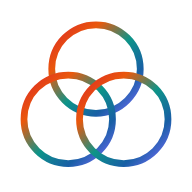
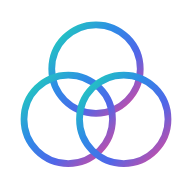
アイコンを提供デザイン(ティール→ブルー→マゼンタ)に／サンプルをサマリーに出さない
- アプリアイコンの3円リングのグラデを提供サンプル準拠（teal→blue→magenta）に変更。PNG再生成。
- サマリー集計を「実データ(Myデータ)」ベースに統一。サンプル表示中の機能は退避中の
  実データ(stash)から集計し、サンプルがホーム/称号/ダッシュボードのサマリーに
  反映されないように（getRealData を sample-view-store に追加）。

Changed region(s): [[0.0938, 0.0938, 0.9062, 0.875]]

diff --git a/src/components/HomeScreen.tsx b/src/components/HomeScreen.tsx
@@ -6,6 +6,7 @@ import { useBekkaiStore } from '@/stores/bekkai-store'
 import { useEntriesStore } from '@/discovery/stores/entries-store'
 import { weeklyOutputs } from '@/lib/utils'
 import { currentStreak } from '@/lib/daily'
+import { useSampleView, getRealData } from '@/stores/sample-view-store'
 import { DailyPrompt } from '@/components/DailyPrompt'
 import { CountUp } from '@/components/CountUp'
 import { Badges } from '@/components/Badges'
@@ -15,36 +16,46 @@ interface HomeScreenProps {
 }
 
 export function HomeScreen({ onNavigate }: HomeScreenProps) {
+  // ストア変更で再描画させるための購読（値はサマリーには直接使わない）
   const { outputs, inputs, failurePower, realizationPower } = useGrowthStore()
   const bekkais = useBekkaiStore((s) => s.bekkais)
   const entries = useEntriesStore((s: { entries: Record<string, unknown[]> }) => s.entries)
+  const modes = useSampleView((s) => s.modes)
 
-  const weekOut = useMemo(() => weeklyOutputs(outputs).length, [outputs])
+  // サマリーは「実データ（Myデータ）」で集計。サンプル表示中の機能は退避中の実データを使う。
+  const real = useMemo(() => getRealData(),
+    [outputs, inputs, failurePower, realizationPower, bekkais, entries, modes])
+
+  const rOutputs = (real.growthCore.outputs ?? []) as { created_at: string }[]
+  const rInputs = (real.growthCore.inputs ?? []) as { created_at: string }[]
+  const rBekkais = (real.bekkais ?? []) as { created_at?: string }[]
+
+  const weekOut = useMemo(() => weeklyOutputs(rOutputs as never).length, [rOutputs])
 
   const streak = useMemo(() => {
     const dates: string[] = []
-    outputs.forEach((o) => dates.push(o.created_at))
-    inputs.forEach((i) => dates.push(i.created_at))
-    bekkais.forEach((b) => dates.push(b.created_at))
-    if (failurePower) Object.values(failurePower).forEach((v) => Array.isArray(v) && v.forEach((x: { created_at?: string }) => x?.created_at && dates.push(x.created_at)))
-    if (realizationPower) [...realizationPower.combinations, ...realizationPower.quantityQualities, ...realizationPower.team].forEach((x) => x?.created_at && dates.push(x.created_at))
-    Object.values(entries ?? {}).forEach((v) => Array.isArray(v) && v.forEach((x: unknown) => { const c = (x as { created_at?: string })?.created_at; if (c) dates.push(c) }))
+    rOutputs.forEach((o) => o.created_at && dates.push(o.created_at))
+    rInputs.forEach((i) => i.created_at && dates.push(i.created_at))
+    rBekkais.forEach((b) => b.created_at && dates.push(b.created_at))
+    if (real.failurePower) Object.values(real.failurePower).forEach((v) => Array.isArray(v) && v.forEach((x: { created_at?: string }) => x?.created_at && dates.push(x.created_at)))
+    if (real.realizationPower) [...(real.realizationPower.combinations ?? []), ...(real.realizationPower.quantityQualities ?? []), ...(real.realizationPower.team ?? [])].forEach((x) => (x as { created_at?: string })?.created_at && dates.push((x as { created_at: string }).created_at))
+    Object.values(real.entries ?? {}).forEach((v) => Array.isArray(v) && v.forEach((x: unknown) => { const c = (x as { created_at?: string })?.created_at; if (c) dates.push(c) }))
     return currentStreak(dates)
-  }, [outputs, inputs, bekkais, failurePower, realizationPower, entries])
+  }, [real, rOutputs, rInputs, rBekkais])
 
   const forces = useMemo(() => {
-    const discoveryCount = Object.values(entries ?? {}).reduce((s, v) => s + (Array.isArray(v) ? v.length : 0), 0)
-    const failCount = failurePower ? Object.values(failurePower).reduce((s, v) => s + (Array.isArray(v) ? v.length : 0), 0) : 0
-    const realCount = realizationPower ? realizationPower.combinations.length + realizationPower.quantityQualities.length + realizationPower.team.length : 0
+    const discoveryCount = Object.values(real.entries ?? {}).reduce((s: number, v) => s + (Array.isArray(v) ? v.length : 0), 0)
+    const failCount = real.failurePower ? Object.values(real.failurePower).reduce((s: number, v) => s + (Array.isArray(v) ? v.length : 0), 0) : 0
+    const realCount = real.realizationPower ? (real.realizationPower.combinations?.length ?? 0) + (real.realizationPower.quantityQualities?.length ?? 0) + (real.realizationPower.team?.length ?? 0) : 0
     // 流れ順（発見→別解→実現→失敗→成長）
     return [
       { key: 'discovery' as AppTab, label: '発見力', sub: '解くべき問題を見つける', Icon: Search, color: '#7c6cff', count: discoveryCount, badge: 'STEP ①' },
-      { key: 'bekkai' as AppTab, label: '別解力', sub: '自分の答えを出す', Icon: Sparkles, color: '#DC2626', count: bekkais.length, badge: 'STEP ②' },
+      { key: 'bekkai' as AppTab, label: '別解力', sub: '自分の答えを出す', Icon: Sparkles, color: '#DC2626', count: rBekkais.length, badge: 'STEP ②' },
       { key: 'realization' as AppTab, label: '実現力', sub: '別解を形にする', Icon: Rocket, color: '#EA580C', count: realCount, badge: 'STEP ③' },
       { key: 'failure' as AppTab, label: '失敗力', sub: '転びを糧にする', Icon: AlertTriangle, color: '#0D9488', count: failCount, badge: 'ループ' },
-      { key: 'growth' as AppTab, label: '成長力', sub: 'アウトプットで伸ばす', Icon: TrendingUp, color: '#185FA5', count: outputs.length + inputs.length, badge: '土台' },
+      { key: 'growth' as AppTab, label: '成長力', sub: 'アウトプットで伸ばす', Icon: TrendingUp, color: '#185FA5', count: rOutputs.length + rInputs.length, badge: '土台' },
     ]
-  }, [outputs, inputs, entries, failurePower, realizationPower, bekkais])
+  }, [real, rOutputs, rInputs, rBekkais])
 
   const total = forces.reduce((s, f) => s + f.count, 0)
 

diff --git a/src/components/Badges.tsx b/src/components/Badges.tsx
@@ -6,30 +6,38 @@ import { currentStreak } from '@/lib/daily'
 import { earnedBadges, BADGES } from '@/lib/badges'
 import { celebrate } from '@/stores/celebrate-store'
 import { toast } from '@/stores/toast-store'
+import { useSampleView, getRealData } from '@/stores/sample-view-store'
 
 const SEEN_KEY = 'earned-badges'
 
 export function Badges() {
-  const { outputs, inputs, failurePower, realizationPower } = useGrowthStore()
+  // 再描画トリガー用の購読（値は称号計算には使わず、実データで計算）
+  const g = useGrowthStore()
   const bekkais = useBekkaiStore((s) => s.bekkais)
   const entries = useEntriesStore((s: { entries: Record<string, unknown[]> }) => s.entries)
+  const modes = useSampleView((s) => s.modes)
 
   const ctx = useMemo(() => {
-    const discovery = Object.values(entries ?? {}).reduce((s, v) => s + (Array.isArray(v) ? v.length : 0), 0)
-    const failure = failurePower ? Object.values(failurePower).reduce((s, v) => s + (Array.isArray(v) ? v.length : 0), 0) : 0
-    const realization = realizationPower ? realizationPower.combinations.length + realizationPower.quantityQualities.length + realizationPower.team.length : 0
-    const realizationDone = realizationPower ? realizationPower.combinations.filter((c) => c.status === 'succeeded').length : 0
+    const real = getRealData()
+    const rOut = (real.growthCore.outputs ?? []) as { created_at: string }[]
+    const rIn = (real.growthCore.inputs ?? []) as { created_at: string }[]
+    const rBek = (real.bekkais ?? []) as { created_at?: string; conclusion?: string }[]
+    const rRP = real.realizationPower
+    const discovery = Object.values(real.entries ?? {}).reduce((s: number, v) => s + (Array.isArray(v) ? v.length : 0), 0)
+    const failure = real.failurePower ? Object.values(real.failurePower).reduce((s: number, v) => s + (Array.isArray(v) ? v.length : 0), 0) : 0
+    const realization = rRP ? (rRP.combinations?.length ?? 0) + (rRP.quantityQualities?.length ?? 0) + (rRP.team?.length ?? 0) : 0
+    const realizationDone = rRP ? (rRP.combinations as { status?: string }[] ?? []).filter((c) => c.status === 'succeeded').length : 0
     const dates = [
-      ...outputs.map((o) => o.created_at), ...inputs.map((i) => i.created_at), ...bekkais.map((b) => b.created_at),
-    ]
+      ...rOut.map((o) => o.created_at), ...rIn.map((i) => i.created_at), ...rBek.map((b) => b.created_at).filter(Boolean),
+    ] as string[]
     return {
       discovery, failure, realization, realizationDone,
-      bekkaiTotal: bekkais.length,
-      bekkaiDone: bekkais.filter((b) => b.conclusion?.trim()).length,
-      outputs: outputs.length, inputs: inputs.length,
+      bekkaiTotal: rBek.length,
+      bekkaiDone: rBek.filter((b) => b.conclusion?.trim()).length,
+      outputs: rOut.length, inputs: rIn.length,
       streak: currentStreak(dates),
     }
-  }, [outputs, inputs, bekkais, failurePower, realizationPower, entries])
+  }, [g.outputs, g.inputs, g.failurePower, g.realizationPower, bekkais, entries, modes])
 
   const earned = useMemo(() => earnedBadges(ctx), [ctx])
 

diff --git a/src/components/growth/GrowthDashboard.tsx b/src/components/growth/GrowthDashboard.tsx
@@ -5,6 +5,7 @@ import { useGrowthStore } from '@/stores/growth-store'
 import { useBekkaiStore } from '@/stores/bekkai-store'
 import { useEntriesStore } from '@/discovery/stores/entries-store'
 import { peerScoredCount } from '@/lib/utils'
+import { useSampleView, getRealData } from '@/stores/sample-view-store'
 import { WeeklySummary } from './WeeklySummary'
 import { WeeklyReviewButton } from './WeeklyReviewButton'
 import { WeeklyReviewModal } from './WeeklyReviewModal'
@@ -96,13 +97,24 @@ const Card = ({ title, sub, children }: { title: string; sub?: string; children:
 )
 
 export function GrowthDashboard() {
-  const { outputs, inputs, failurePower, realizationPower } = useGrowthStore()
-  const bekkais = useBekkaiStore((s) => s.bekkais)
-  const entries = useEntriesStore((s: { entries: Record<string, unknown[]> }) => s.entries)
+  // サマリーは「実データ（Myデータ）」で集計。サンプル表示中は退避中の実データを使う。
+  const g = useGrowthStore()
+  const bekkaisLive = useBekkaiStore((s) => s.bekkais)
+  const entriesLive = useEntriesStore((s: { entries: Record<string, unknown[]> }) => s.entries)
+  const modes = useSampleView((s) => s.modes)
+  const real = useMemo(() => getRealData(),
+    [g.outputs, g.inputs, g.failurePower, g.realizationPower, bekkaisLive, entriesLive, modes])
+
+  const outputs = (real.growthCore.outputs ?? []) as { created_at: string; self_score: number; peer_score?: number | null }[]
+  const inputs = (real.growthCore.inputs ?? []) as { created_at: string }[]
+  const failurePower = real.failurePower
+  const realizationPower = real.realizationPower
+  const bekkais = (real.bekkais ?? []) as unknown[]
+  const entries = real.entries
   const [weeklyOpen, setWeeklyOpen] = useState(false)
 
   const selfScoredTotal = useMemo(() => outputs.filter((o) => o.self_score > 0).length, [outputs])
-  const peerCount = useMemo(() => peerScoredCount(outputs), [outputs])
+  const peerCount = useMemo(() => peerScoredCount(outputs as never), [outputs])
 
   const buckets = useMemo(() => {
     const now = new Date()
@@ -119,8 +131,8 @@ export function GrowthDashboard() {
   }, [outputs, inputs])
 
   const forceRows = useMemo(() => {
-    const discoveryCount = Object.values(entries ?? {}).reduce((s, v) => s + (Array.isArray(v) ? v.length : 0), 0)
-    const failCount = failurePower ? Object.values(failurePower).reduce((s, v) => s + (Array.isArray(v) ? v.length : 0), 0) : 0
+    const discoveryCount = Object.values(entries ?? {}).reduce((s: number, v) => s + (Array.isArray(v) ? v.length : 0), 0)
+    const failCount = failurePower ? Object.values(failurePower).reduce((s: number, v) => s + (Array.isArray(v) ? v.length : 0), 0) : 0
     const realCount = realizationPower ? realizationPower.combinations.length + realizationPower.quantityQualities.length + realizationPower.team.length : 0
     return [
       { key: 'growth', label: '成長力', Icon: TrendingUp, color: '#185FA5', count: outputs.length + inputs.length },

diff --git a/src/stores/sample-view-store.ts b/src/stores/sample-view-store.ts
@@ -43,6 +43,41 @@ export function isAnySampleMode(): boolean {
   return FEATURES.some((f) => readMode(f) === 'sample')
 }
 
+function stashed(feature: SampleFeature): unknown {
+  try { return JSON.parse(localStorage.getItem(stashKey(feature)) || 'null') } catch { return null }
+}
+
+export interface RealData {
+  growthCore: { outputs: unknown[]; inputs: unknown[]; roleModels: unknown[]; upcomingPeople: unknown[] }
+  failurePower: Record<string, unknown> | null
+  realizationPower: { combinations: unknown[]; quantityQualities: unknown[]; team: unknown[]; confidence?: string } | null
+  bekkais: unknown[]
+  entries: Record<string, unknown[]>
+}
+
+/**
+ * サマリー集計用の「実データ（Myデータ）」を返す。
+ * サンプル表示中の機能は、退避中の実データ（stash）から読む。
+ * → サンプルはサマリーに反映されない。
+ */
+export function getRealData(): RealData {
+  const g = useGrowthStore.getState()
+  const growthReal = readMode('growth') === 'sample'
+    ? (stashed('growth') as RealData['growthCore'] | null)
+    : { outputs: g.outputs, inputs: g.inputs, roleModels: g.roleModels, upcomingPeople: g.upcomingPeople }
+  const failureReal = readMode('failure') === 'sample' ? (stashed('failure') as RealData['failurePower']) : (g.failurePower as unknown as RealData['failurePower'])
+  const realizationReal = readMode('realization') === 'sample' ? (stashed('realization') as RealData['realizationPower']) : (g.realizationPower as unknown as RealData['realizationPower'])
+  const bekkaisReal = readMode('bekkai') === 'sample' ? (stashed('bekkai') as unknown[]) : useBekkaiStore.getState().bekkais
+  const entriesReal = readMode('discovery') === 'sample' ? (stashed('discovery') as Record<string, unknown[]>) : useEntriesStore.getState().entries
+  return {
+    growthCore: growthReal ?? { outputs: [], inputs: [], roleModels: [], upcomingPeople: [] },
+    failurePower: failureReal ?? null,
+    realizationPower: realizationReal ?? null,
+    bekkais: bekkaisReal ?? [],
+    entries: entriesReal ?? {},
+  }
+}
+
 interface SampleViewState {
   modes: Record<SampleFeature, 'mydata' | 'sample'>
   /** sample=true でサンプル表示、false で Myデータに戻す（非破壊） */
